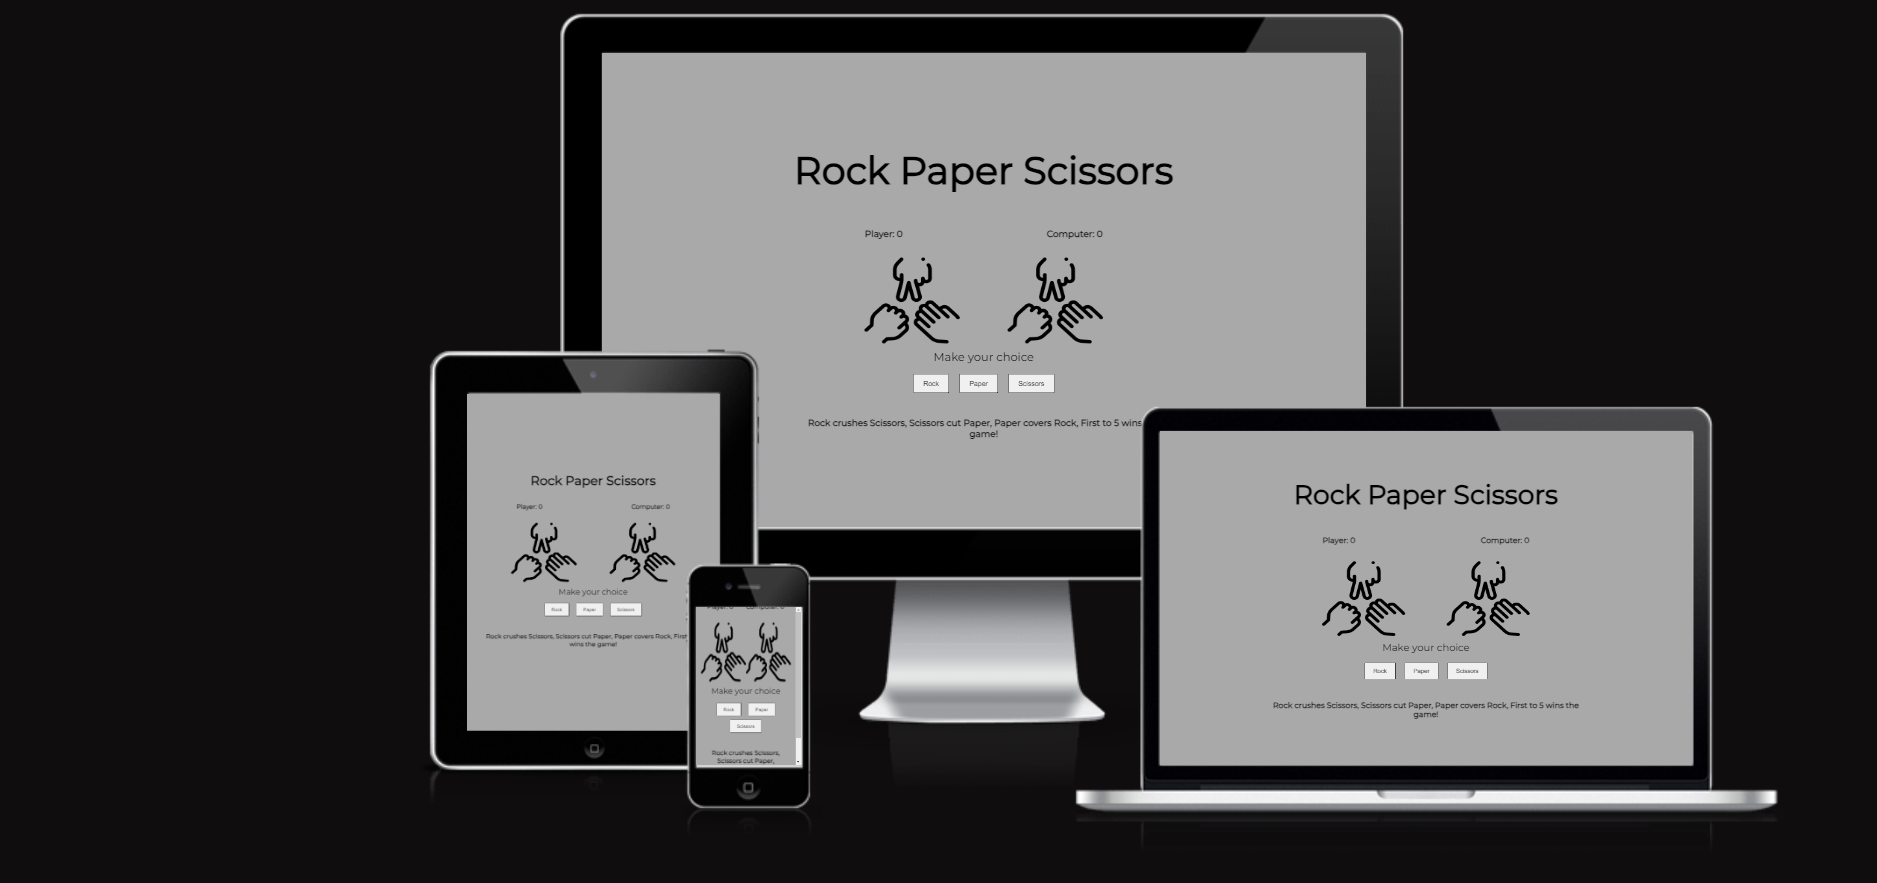
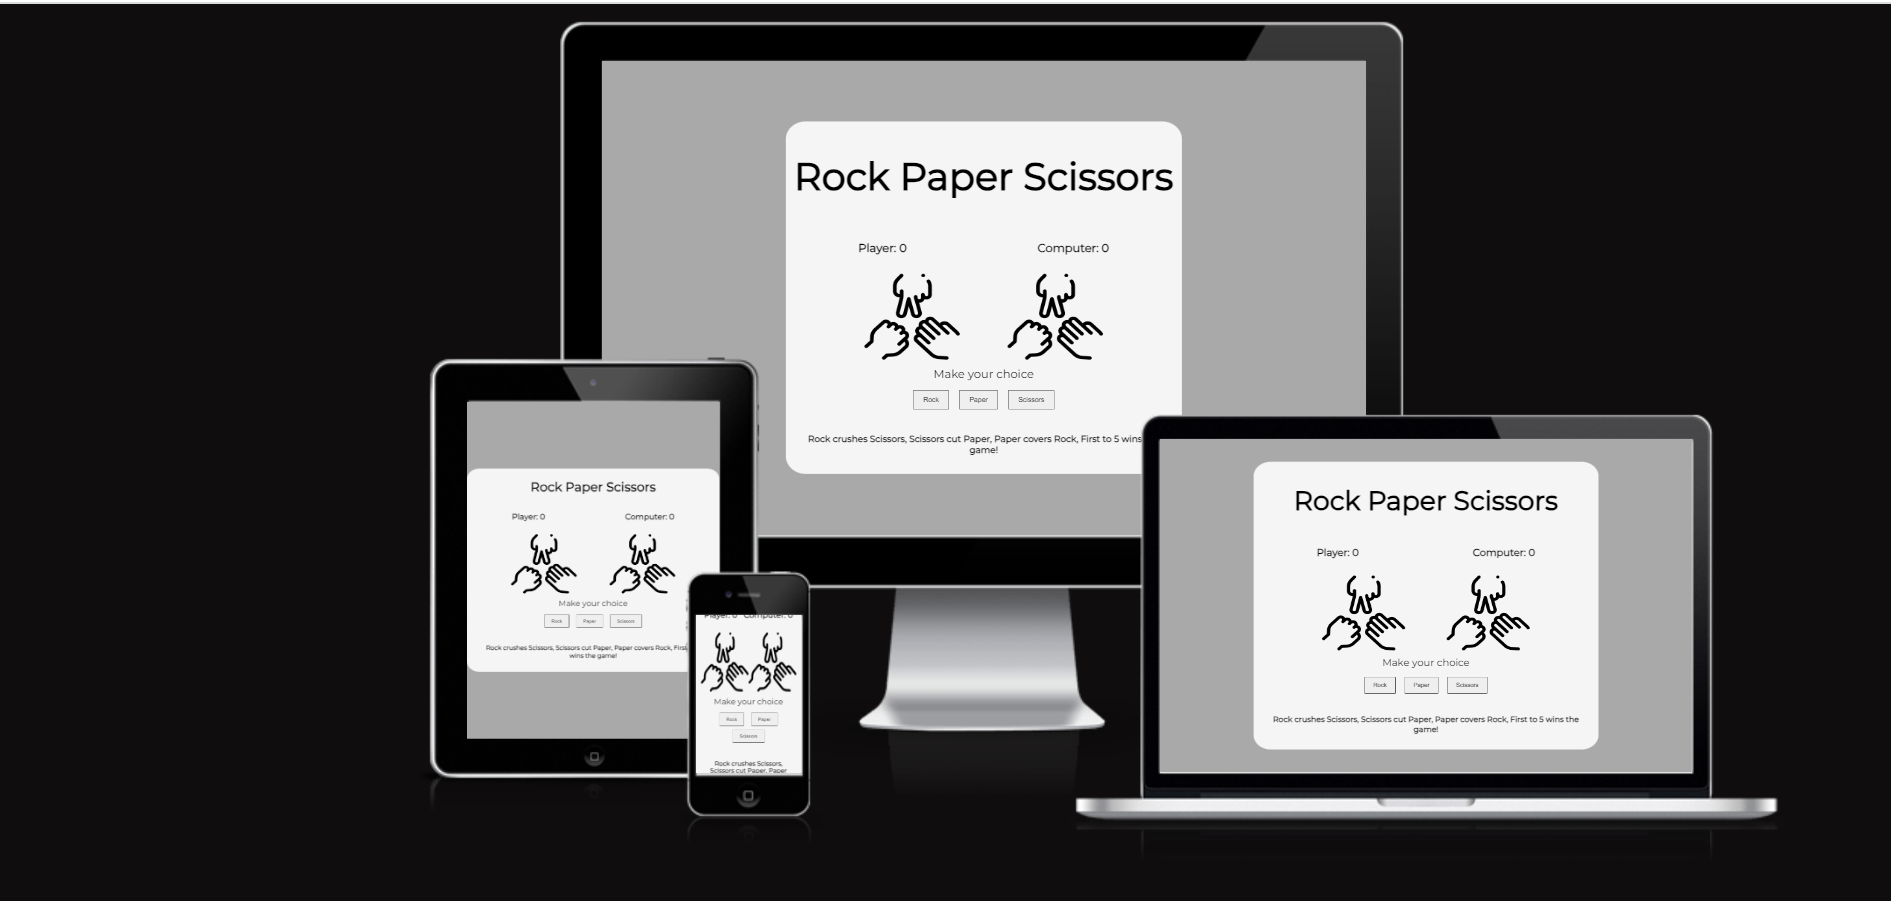
andd more features and screenshots to the readme.md file

Changed region(s): [[0.0, 0.0, 1.0, 0.9173]]

diff --git a/assets/css/style.css b/assets/css/style.css
@@ -17,7 +17,7 @@ body {
     max-width: 800px;
     width: 100%;
     padding: 0 15px;
-    background-color: whitesmoke;
+    background-color: white;
     border-radius: 5%;
 
 }

diff --git a/README.md b/README.md
@@ -15,6 +15,7 @@ This Rock Paper Scissors game is a classic hand game brought to life in a digita
   - [Further Testing](#further-testing)
   - [Manual Testing](#manual-testing)
   - [Deployment](#deployment)
+  - [Local Deployment](#local-deployment)
 
 ## User Storyes
 
@@ -27,7 +28,15 @@ This Rock Paper Scissors game is a classic hand game brought to life in a digita
 
 - Colour Scheme
 
-The game interface is designed using a harmonious blend of colors, with a dark gray background providing a sleek and modern backdrop. Crisp black text ensures clear and easy-to-read instructions and game updates. Additionally, green highlights signify the leading score, while red accents draw attention to the score that is lagging, creating a visually engaging and dynamic gaming experience.
+The color scheme of this project is designed to provide a visually appealing and user-friendly experience. The main components of the color scheme include:
+
+ -  **Body Background:** Dark Gray is used for the background of the main content, providing a subtle and elegant contrast that is easy on the eyes.
+
+- **Game Interface:** White is utilized for the game interface, ensuring a clean and minimalistic design that highlights the game elements effectively.
+
+- **Text:** Black is employed for the text, ensuring optimal readability and clarity against the white background, creating a seamless and user-friendly experience.
+
+The combination of these colors creates a balanced and visually engaging environment that enhances the overall usability and aesthetics of the project.
 
 - Typography
 
@@ -53,6 +62,15 @@ The images used in this project were sourced from [Flaticon](https://www.flatico
 - Responsive on all device sizes
 - Clean and user fiendly design
 - Accesible
+- Real-Time Score Tracking
+  -  Keep track of your progress with the real-time score tracking feature. 
+- Clear Game Results
+  - Receive instant feedback with clear and concise game results. Know whether you've won, lost, or tied with the computer at the end of each round, keeping the excitement alive throughout the game.
+  ![score screenshot](documentation/trackOfScore.png)  
+
+- User-Friendly Interface with Intuitive Buttons
+  -  The game features a user-friendly interface with intuitive buttons for selecting your moves. Simply click on the 'Rock', 'Paper', or 'Scissors' button to make your choice.
+  ![buttons screenshot](documentation/buttons.png) 
 
 ## Technologies Used
 
@@ -114,3 +132,10 @@ The live link can be found here - <https://arnoldkoss.github.io/rock-paper-sciss
   - In the GitHub repository, navigate to the Settings tab.
   - From the source section drop-down menu, select the Master Branch.
   - Once the master branch has been selected, the page will be automatically refreshed with a detailed ribbon display to indicate the successful deployment.
+
+## Local Deployment
+
+- I deployed the site locally by downloading the .zip file from Github to my device.
+- I unzipped the file and tested each link page to make sure it opened correctly on my browser.
+
+![Local deployment screenshot](documentation/localDployment.png)
